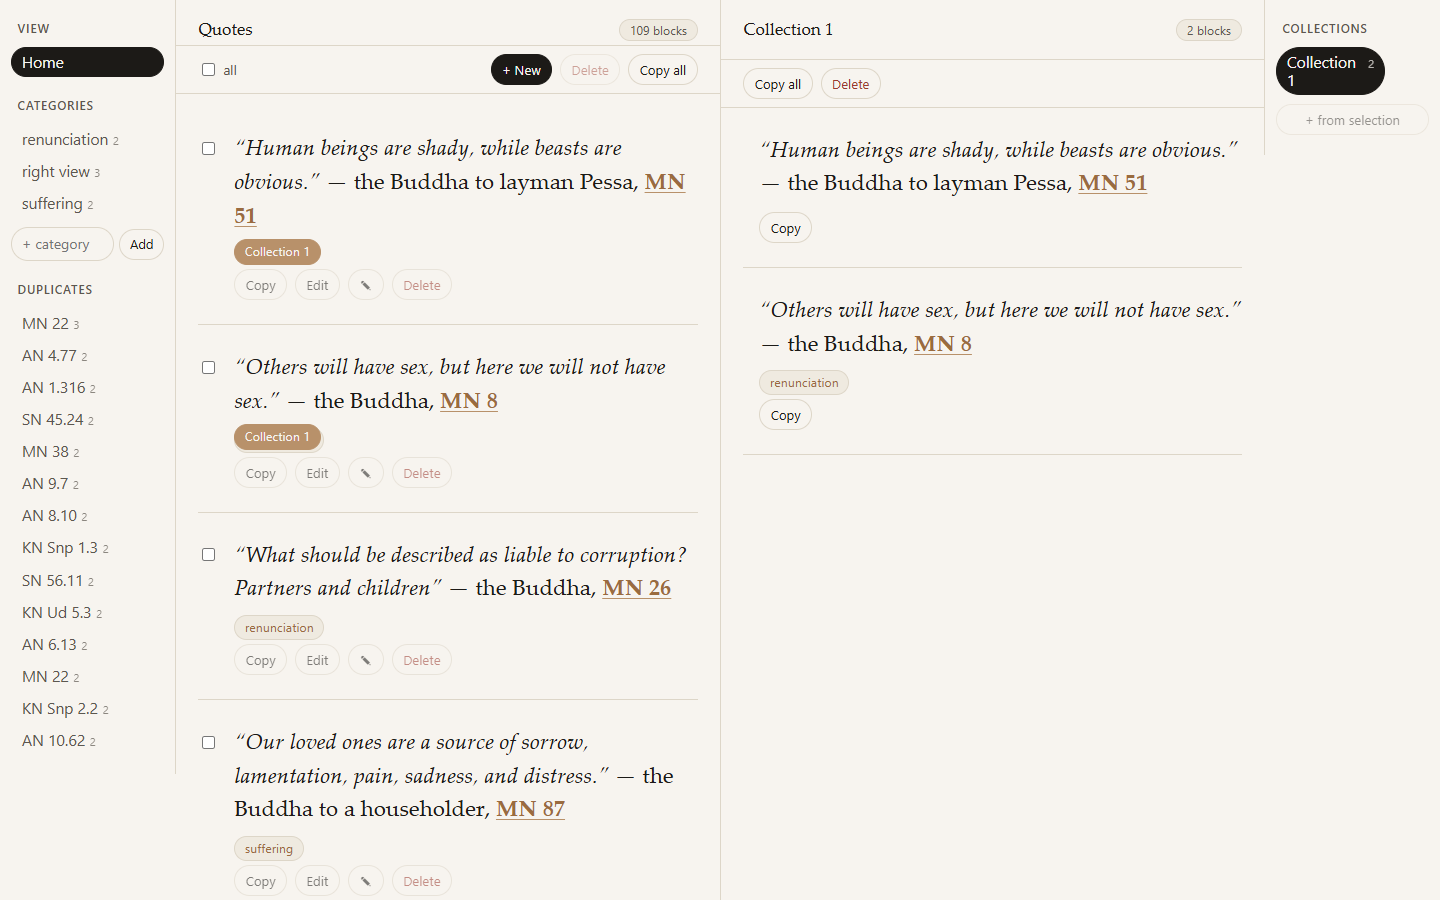
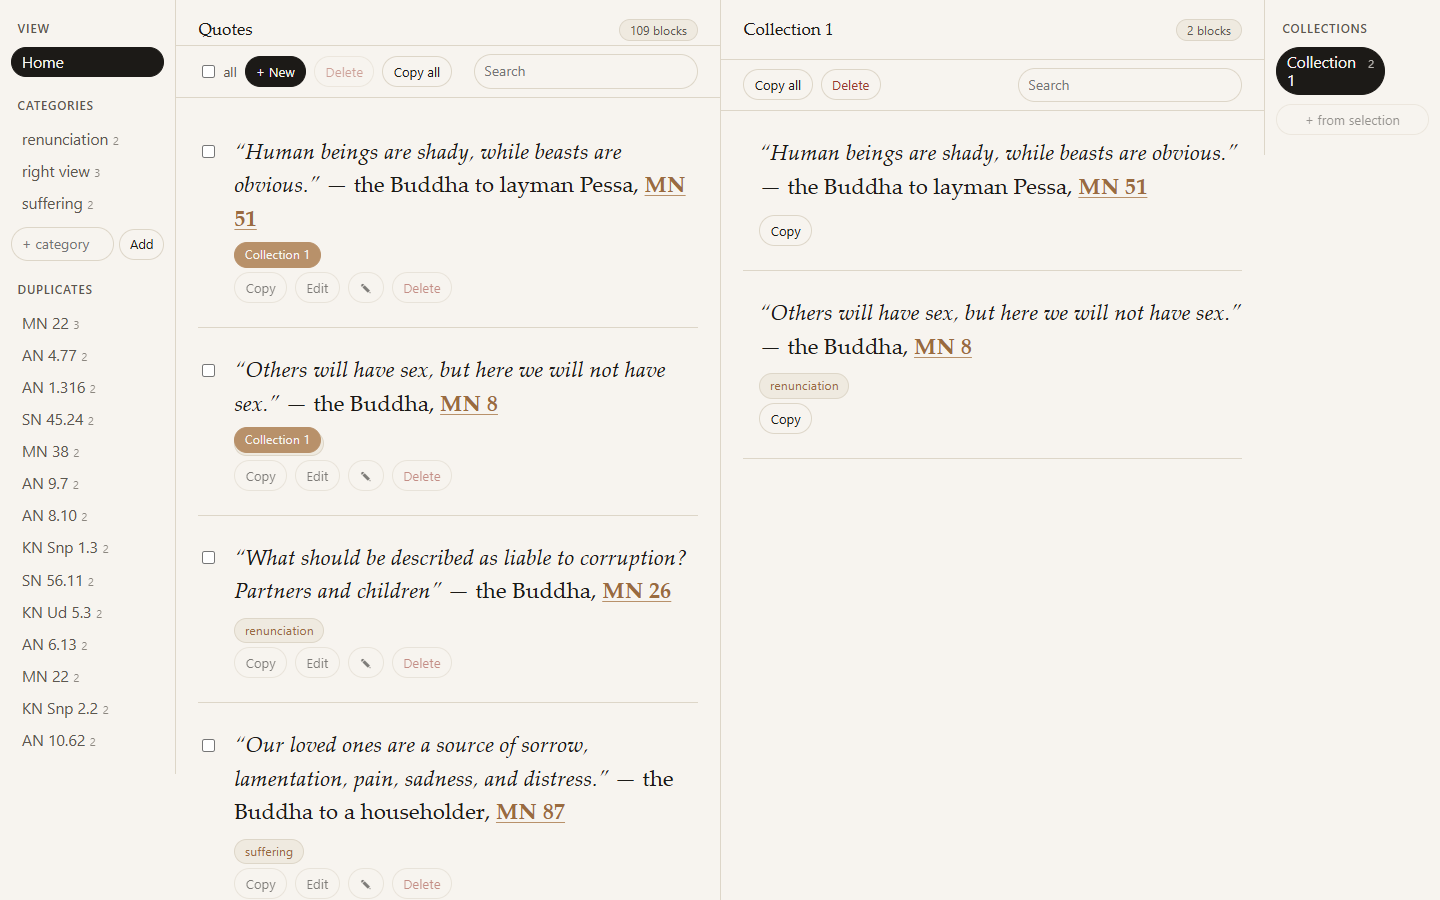
docs: document panel search; record v0.8.0
README gains a Search section and lists internal/search plus the collection_list template; CHANGELOG gets the v0.8.0 rows and link. Coverage badge 90.9%, home screenshot refreshed.

diff --git a/readme.md b/readme.md
@@ -1,7 +1,7 @@
 # quotes-manager
 
 <!-- coverage:START -->
-![coverage](https://img.shields.io/badge/coverage-90.7%25-brightgreen)
+![coverage](https://img.shields.io/badge/coverage-90.9%25-brightgreen)
 <!-- coverage:END -->
 
 ![quotes-manager home page](docs/home.png)
@@ -19,6 +19,7 @@ dumps/                         source essays (input, hand-written)
   sacredness-and-profanity.txt          sutta quotes, inline-cited
   stream-entry-for-lay-buddhists.txt    sutta quotes, inline + header-cited
 internal/quote/                parser, normalizer, renderer, near-duplicate detection, seed emitter (+ tests)
+internal/search/               pure full-text filter (Terms/Match/Filter) over []store.Quote (+ tests)
 internal/store/                SQLite store: CRUD + collections + categories, ordered by char_count
 internal/seed/                 EnsureSeeded: canonical seed (+ sample categories) on a fresh database
 internal/server/               HTMX handlers + server-rendered templates (+ tests)
@@ -35,7 +36,7 @@ docs/
 exports/
   shortest-first.md            generated export, shortest-first (committed)
 web/
-  templates/                   layout, rail_left, rail_right, root_zone, collection_zone, quote_list, quote_block(_ro), quote_form, quote_chips, quote_collection_chips, quote_category_editor
+  templates/                   layout, rail_left, rail_right, root_zone, collection_zone, collection_list, quote_list, quote_block(_ro), quote_form, quote_chips, quote_collection_chips, quote_category_editor
   static/                      app.css (typography/components) + layout.css (4-zone grid), app.js, htmx (vendored)
 go.mod
 readme.md
@@ -123,6 +124,17 @@ Home first if a category filter is active, and briefly highlights it. The
 canonical seed already contains one such cluster: the `MN 22` trio that differs
 only in "Bhikkhus"/"Mendicants" and "sexual"/"sensual". Adding, editing, or
 deleting a quote refreshes the section live.
+
+### Search
+
+Each text column has a search box in its toolbar, scoped to the column's active
+set: Home or the current category on the left, the active collection on the
+right. Typing filters the column in place over htmx (debounced); matching is
+case-insensitive, any whitespace-separated word (OR) against the quote body and
+citation, with hits wrapped in `<mark>`. `?rq=` and `?cq=` deep-link the two
+columns independently. Switching category or collection clears the search.
+While a collection search is active the insert gaps and drag handles are hidden,
+so a filtered subset cannot be mis-reordered.
 
 ### SQLite schema (web)
 

diff --git a/changelog.md b/changelog.md
@@ -6,6 +6,11 @@ adheres to [Semantic Versioning](https://semver.org/spec/v2.0.0.html).
 
 | Version | Date | Type | Change |
 |---------|------|------|--------|
+| [0.8.0] | 2026-07-04 | Added | Full-text search in both panels: each text column has a search box in its toolbar scoped to the column's active set (Home or a category on the left, the active collection on the right). Server-side filtering via the new `internal/search` package (`Terms`, `Match`, `Filter`), threaded through `buildPageData` as `?rq=` and `?cq=`. Matching is case-insensitive, any whitespace-separated word (OR) over the quote body and citation. |
+| [0.8.0] | 2026-07-04 | Added | Highlighted matches: `quote.DisplayHTMLWithTerms` wraps every case-insensitive hit in `<mark>` (HTML-safe, original case preserved), used by the `display` template func when a search is active; an empty-state message shows when nothing matches. |
+| [0.8.0] | 2026-07-04 | Added | `GET /search/root` and `GET /search/collection` return just the filtered list fragment plus an out-of-band count swap, so the search input keeps focus between keystrokes; both panes are deep-linkable via `?rq=`/`?cq=` on `GET /`. Switching category or collection clears the search. |
+| [0.8.0] | 2026-07-04 | Changed | While a collection search is active, insert gaps, drag handles, and the `data-reorder` hook are hidden so a filtered subset cannot be mis-reordered. |
+| [0.8.0] | 2026-07-04 | Changed | Test coverage rises to 90.9% of statements; the new `internal/search` package is at 100%. |
 | [0.7.1] | 2026-07-03 | Changed | Streamlined the README (tighter prose, less decorative formatting, no emdashes) and converted the CHANGELOG from nested version headings into a single version table. |
 | [0.7.0] | 2026-07-03 | Added | Near-duplicate detection in `internal/quote`: word-level Jaccard similarity over cleaned passage text plus a disjoint set that groups quotes whose pairwise similarity exceeds `0.8`, transitively. `quote.GroupDuplicates` returns only clusters of two or more, grouped by content, not text id. Fully unit-tested (table + property) and pinned to the seed's `MN 22` trio. |
 | [0.7.0] | 2026-07-03 | Added | Duplicates rail listing each cluster's representative (shortest) text id with a member-count chip, with a body-excerpt fallback when a quote has no text id. |
@@ -58,6 +63,7 @@ adheres to [Semantic Versioning](https://semver.org/spec/v2.0.0.html).
 | [0.1.0] | 2026-06-29 | Notes | Quotes are drawn from `sacredness-and-profanity.txt` and `stream-entry-for-lay-buddhists.txt`; `discerning-truth-from-deception.txt` is prose only and contributes no quotes. |
 | [0.1.0] | 2026-06-29 | Notes | Unattributed quotes (including all header-cited ones) are normalized to "the Buddha". |
 
+[0.8.0]: https://github.com/lavantien/quotes-manager/releases/tag/v0.8.0
 [0.7.1]: https://github.com/lavantien/quotes-manager/releases/tag/v0.7.1
 [0.7.0]: https://github.com/lavantien/quotes-manager/releases/tag/v0.7.0
 [0.6.0]: https://github.com/lavantien/quotes-manager/releases/tag/v0.6.0